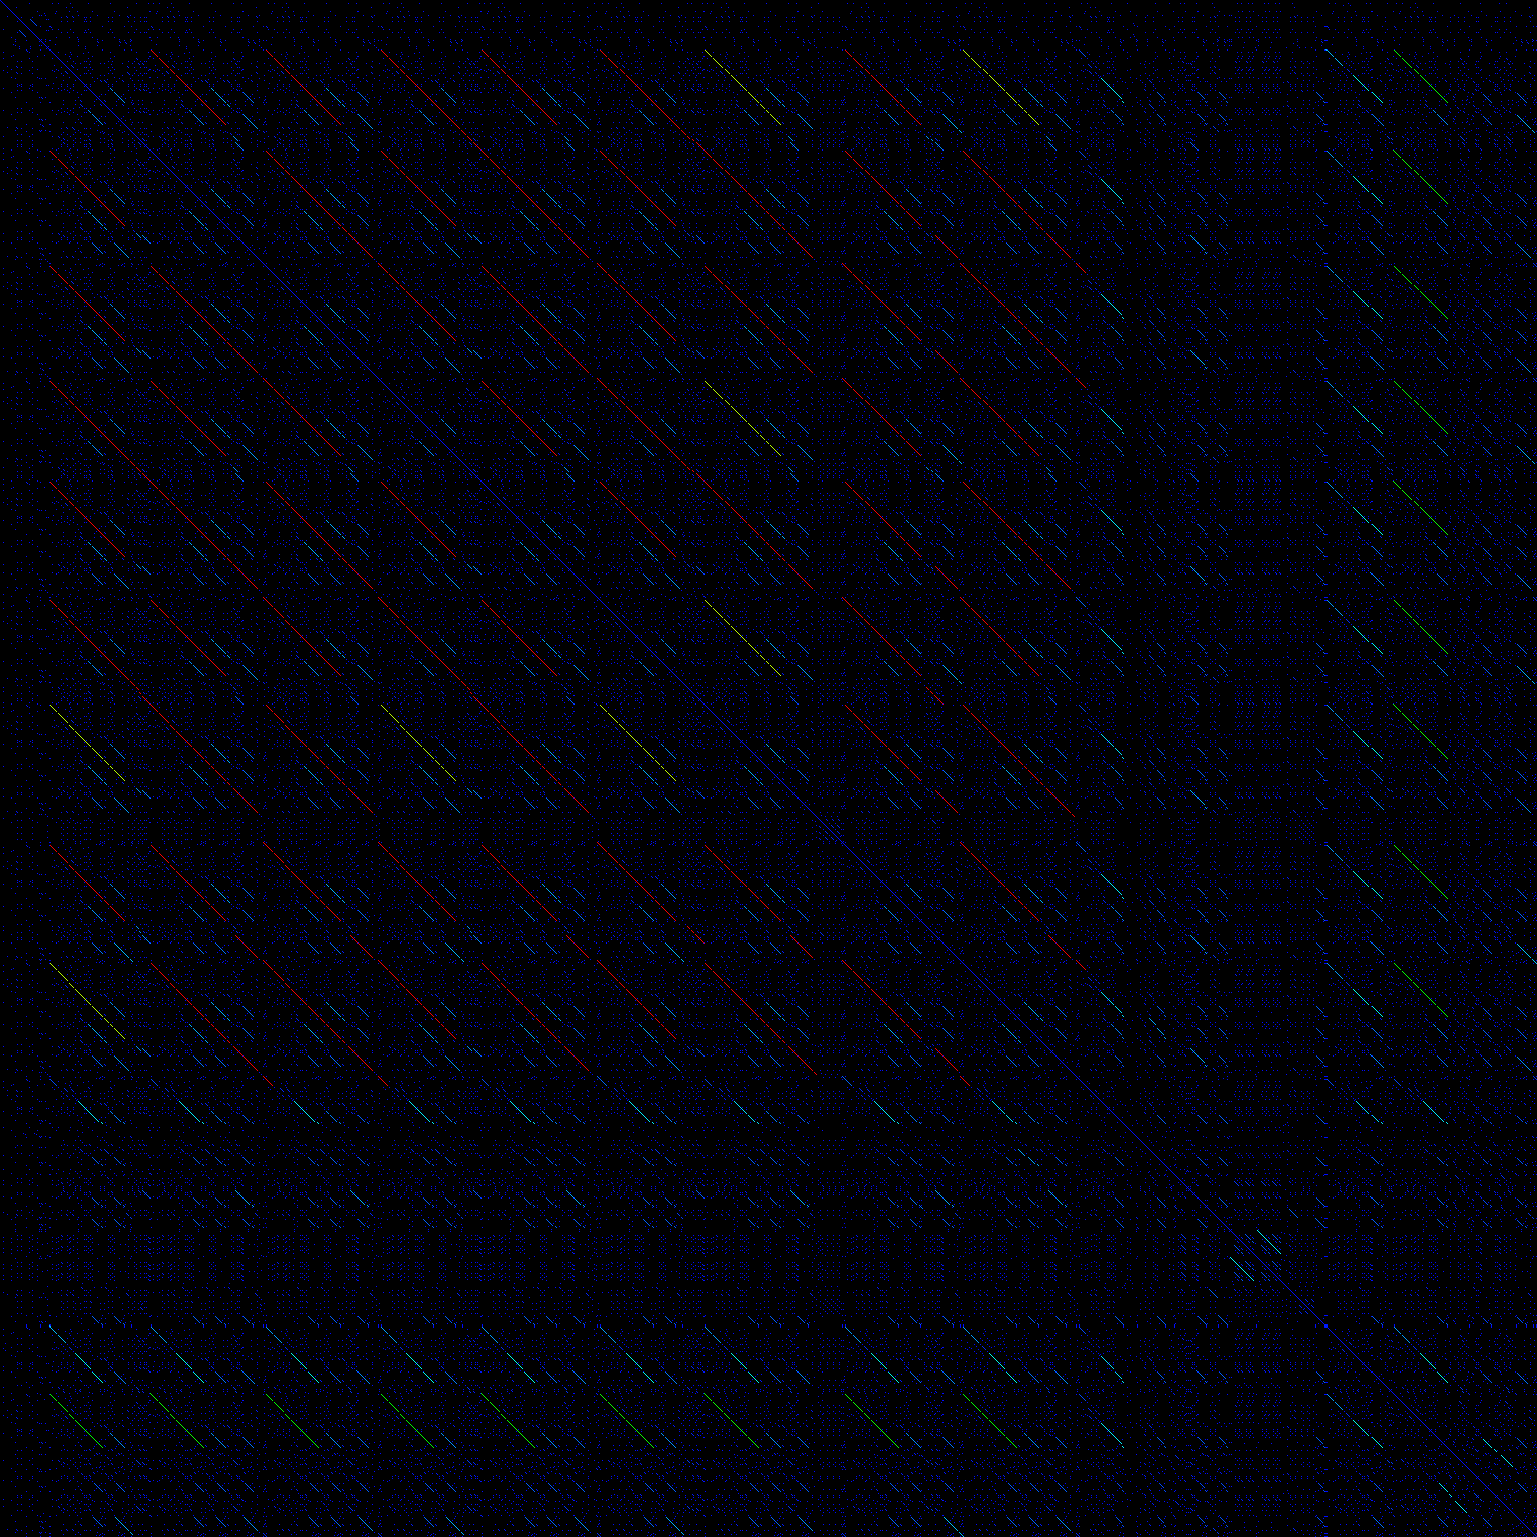
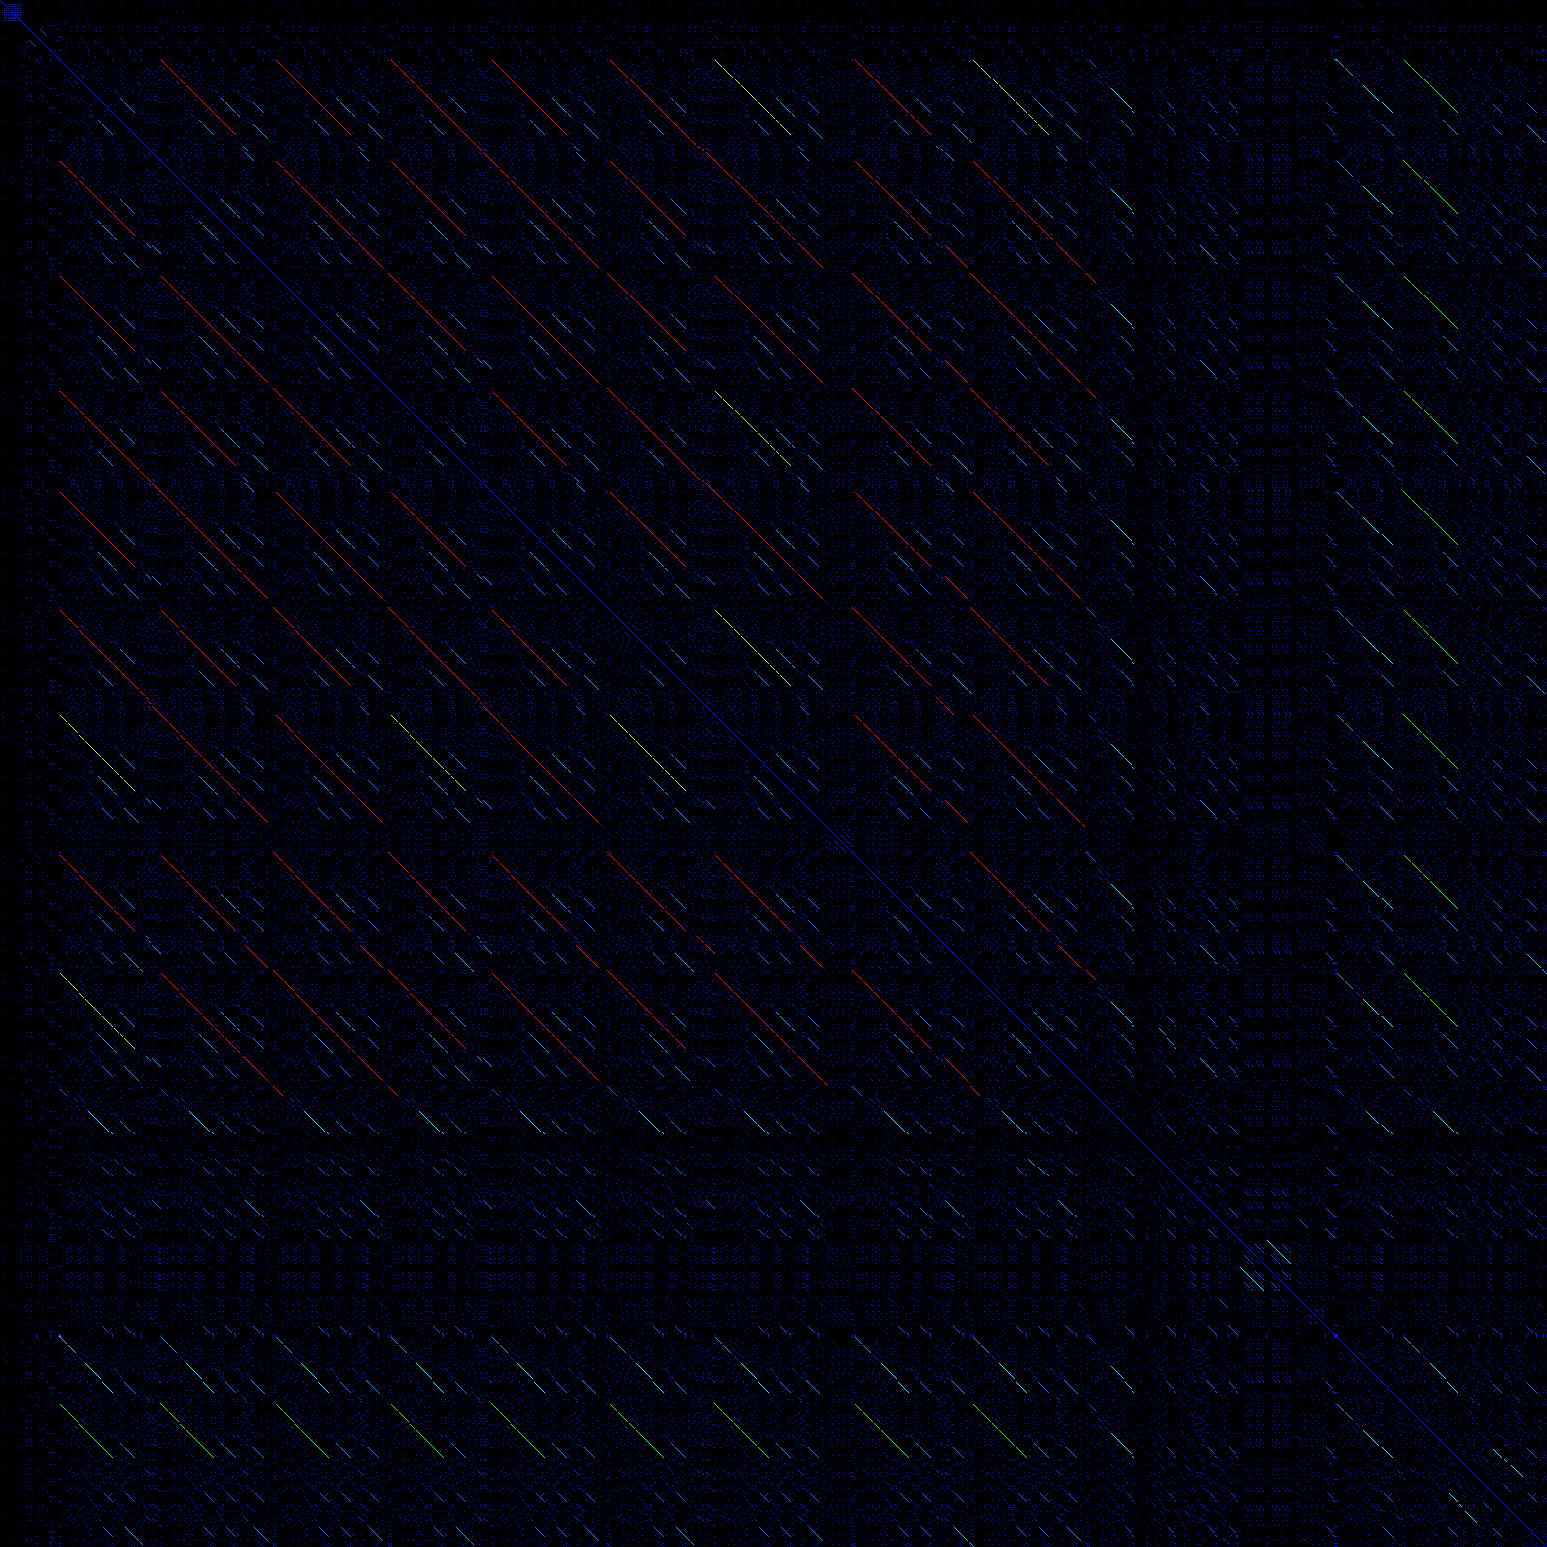
Update readme and other tweaks (#33)
Among other things, I wiped my virtual environment, reinstalled everything from scratch, and was surprised that the tree-sitter implementation had changed. So, I've also updated some test data to get the tests to pass again.

* tweaks to the readme

* tweak to touchpad zooming: do things in the order you'd expect

* upgrade code_tokenize, needs to update tests to match

* the test shouldn't hang when it fails

* update images in integration tests for new version of tree-sitter

* all tests pass again

* add java support

Changed region(s): [[0.0312, 0.0312, 1.0, 1.0], [0.0, 0.0, 0.0312, 0.0312]]

diff --git a/generate_report_test.py b/generate_report_test.py
@@ -12,11 +12,11 @@ class TestGenerateReports(unittest.TestCase):
                 pointsprite_info, pointsprite_info, 100))
         expected = [
             "Found duplicated code between examples/pointsprite.py and examples/pointsprite.py:",
-            "    706 tokens on lines 28-121 and lines 121-295",
-            "    126 tokens on lines 90-105 and lines 104-121",
-            "    126 tokens on lines 90-105 and lines 280-295",
-            "    126 tokens on lines 104-121 and lines 266-281",
-            "    126 tokens on lines 266-281 and lines 280-295",
+            "    672 tokens on lines 28-119 and lines 121-295",
+            "    116 tokens on lines 92-104 and lines 105-119",
+            "    116 tokens on lines 92-104 and lines 281-295",
+            "    116 tokens on lines 105-119 and lines 268-280",
+            "    116 tokens on lines 268-280 and lines 281-295",
             ]
         self.assertEqual(expected, actual)
 
@@ -27,11 +27,12 @@ class TestGenerateReports(unittest.TestCase):
                 [nmea_info, rtk_info], 100))
         expected = [
             "Found duplicated code between examples/gpsnmea.go and examples/gpsrtk.go:",
-            "    413 tokens on lines 69-131 and lines 85-152",
+            "    451 tokens on lines 69-131 and lines 85-152",
             "Found duplicated code between examples/gpsrtk.go and examples/gpsrtk.go:",
-            "    120 tokens on lines 278-316 and lines 312-352",
-            "    116 tokens on lines 352-363 and lines 487-498",
-            "    142 tokens on lines 395-423 and lines 446-472",
+            "    100 tokens on lines 96-124 and lines 106-127",
+            "    128 tokens on lines 278-316 and lines 312-352",
+            "    118 tokens on lines 352-363 and lines 487-498",
+            "    157 tokens on lines 389-423 and lines 444-472",
             "    362 tokens on lines 559-618 and lines 567-626",
             "    305 tokens on lines 559-610 and lines 575-626",
             "    251 tokens on lines 559-602 and lines 583-626",

diff --git a/integration_test.py b/integration_test.py
@@ -25,8 +25,10 @@ class TestGetLengths(unittest.TestCase):
 
     def assertImagesMatch(self, expected_filename, actual_image):
         expected_image = PIL.Image.open(f"test_images/{expected_filename}")
-        self.assertEqual(list(actual_image.getdata()),
-                         list(expected_image.getdata()))
+        # This used to be a `self.assertEqual`, but when it fails, formatting
+        # the error message takes forever.
+        self.assertTrue(list(actual_image.getdata()) ==
+                        list(expected_image.getdata()))
 
     @parameterized.expand((("cpp_example.hpp",),
                           ("index.js",),

diff --git a/zoom_map.py b/zoom_map.py
@@ -107,8 +107,8 @@ class ZoomMap(tk.Canvas):
         self._zoom_touchpad_amount += delta_x + delta_y
         if abs(self._zoom_touchpad_amount) > 20:
             sign = 1 if self._zoom_touchpad_amount > 0 else -1
-            self._zoom_touchpad_amount = 0
             self._zoom(-sign, event)
+            self._zoom_touchpad_amount = 0
 
     def _zoom(self, amount: int, event: tk.Event) -> None:
         if not self._pyramid.zoom(amount):

diff --git a/utils.py b/utils.py
@@ -46,6 +46,7 @@ def guess_language(filename: str) -> str:
         "hpp":    "cpp",
         "go":     "go",
         "hs":     "haskell",
+        "java":   "java",
         "js":     "javascript",
         "py":     "python",
         "rs":     "rust",

diff --git a/README.md b/README.md
@@ -26,7 +26,7 @@ mouse is on, and the bottom snippit is for the column. In large images, as you
 zoom out, multiple tokens will be combined into single pixels in the image, and
 multiple tokens will be highlighted in these snippets.
 
-## Prerequisites
+## Installation
 You'll need [Tcl/Tk bindings](https://docs.python.org/3/library/tkinter.html)
 for Python. This might require installing something outside of your virtual
 environment: you'll know it's set up right if you can run `python3 -m tkinter`
@@ -35,7 +35,8 @@ and get a little interactive window to pop up.
 - On Mac: `brew install python-tk`
 - On Ubuntu: `sudo apt-get install python3-pil.imagetk`
 
-After that, just `pip3 install -r requirements.txt`, and you should be good!
+After that, just clone the repo, run `pip3 install -r requirements.txt`, and
+you should be good!
 
 If you get errors about not doing this in a virtual environment, try
 `python3 -m venv venv`, then `source venv/bin/activate`, and _then_
@@ -46,7 +47,7 @@ either file an issue telling us to update the documentation with what you did,
 or update it yourself and send us a pull request!).
 
 ## Options
-The short version: run `visual_diff.py --help` for info.
+The short version: run `./visual_diff.py --help` for info.
 
 The program can recognize a handful of languages from the file extension (e.g.,
 `.py` or `.go`). If you want to use a language that is not automatically
